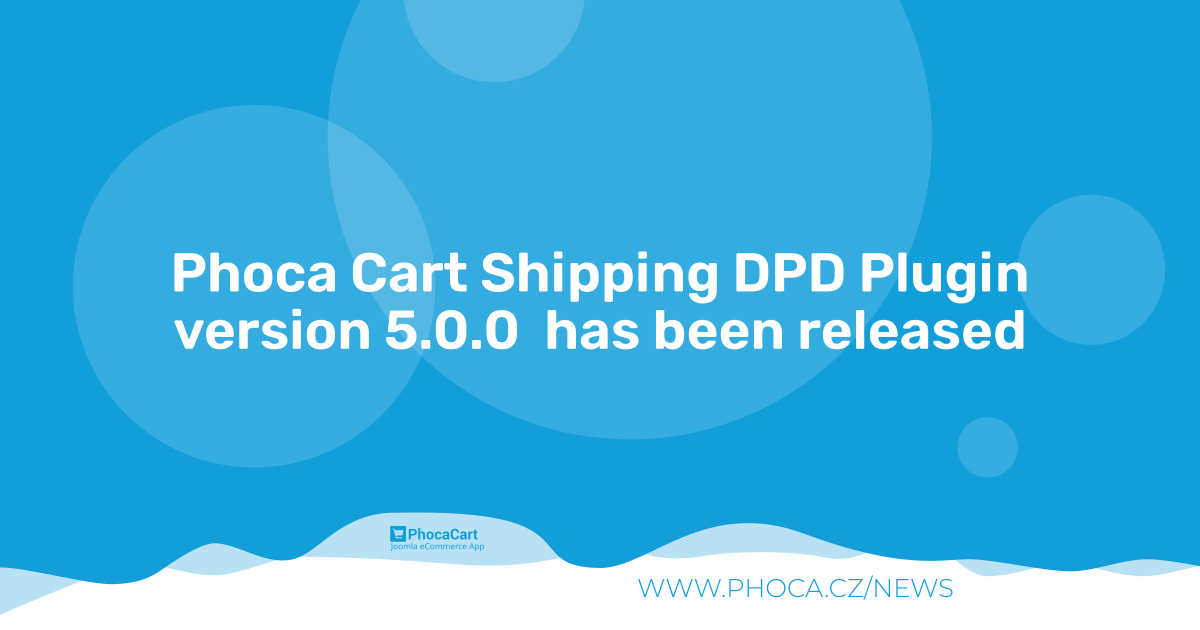
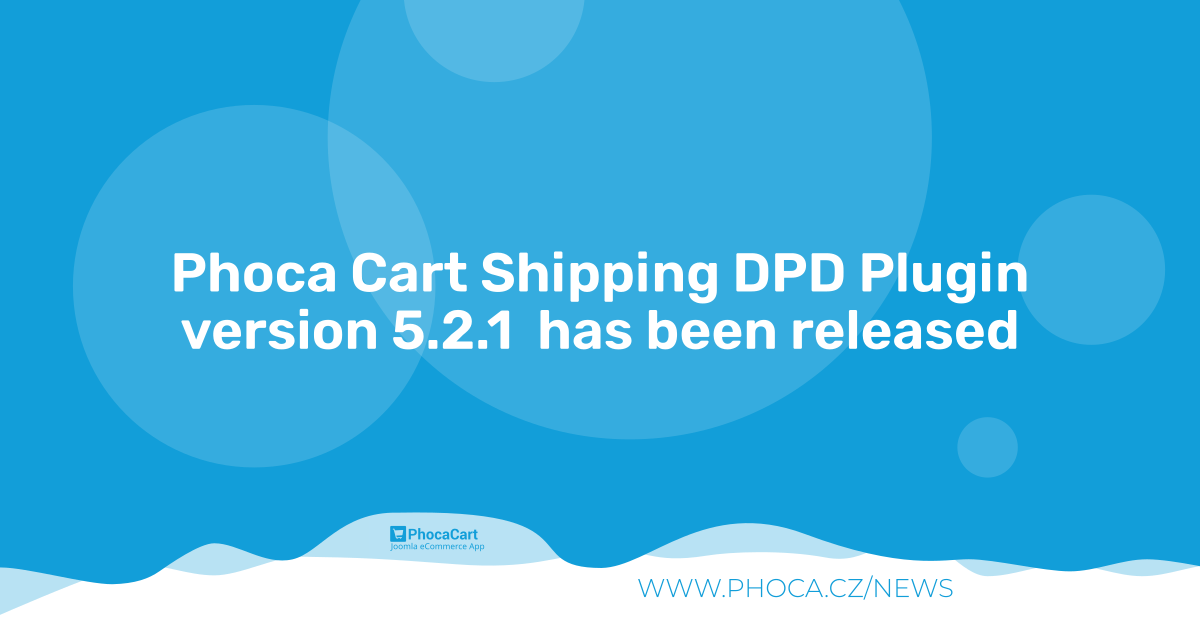
5.2.1

Changed region(s): [[0.1233, 0.4825, 0.8633, 0.573]]

diff --git a/tmpl/default_branchinfo_export.php b/tmpl/default_branchinfo_export.php
@@ -35,38 +35,70 @@ if (!empty($orders)) {
         $paramsShipping = json_decode($v->params_shipping);
 
         $id = (int)$v->id;
-        $eA[$id][]   = ['orderNumber' => $v->order_number];
-        $eA[$id][]   = ['senderLabel' => $senderName];
 
-        $eA[$id][] = $v->us1_name_first != '' ? ['name' => $v->us1_name_first] : ['name' => $v->us0_name_first];// first shipping then billing
-        $eA[$id][] = $v->us1_name_last != '' ? ['surname' => $v->us1_name_last] : ['surname' => $v->us0_name_last];
 
+        // Name
+        $nameFirst = $v->us1_name_first != '' ? $v->us1_name_first : $v->us0_name_first;
+        $nameLast = $v->us1_name_last != '' ? $v->us1_name_last : $v->us0_name_last;
+        $eA[$id][]   = [Text::_('PLG_PCS_SHIPPING_DPD_CSV_HEADER_NAME') => $nameFirst . ' '.$nameLast];
+
+        // Company
         $company    = $v->us1_company != '' ? $v->us1_company : $v->us0_company;
         if ($company != '') {
-            $eA[$id][] = ['company' => $company];
+            $eA[$id][]   = [Text::_('PLG_PCS_SHIPPING_DPD_CSV_HEADER_COMPANY') => $company];
         }
 
-        $eA[$id][] = $v->us1_email != '' ? ['emailAddress' => $v->us1_email] : ['emailAddress' => $v->us0_email];
+        // Address
+        $address = $v->us1_address_1 != '' ? $v->us1_address_1 : $v->us0_address_1;
+        $eA[$id][]   = [Text::_('PLG_PCS_SHIPPING_DPD_CSV_HEADER_ADDRESS') => $address];
 
+        // City
+        $city = $v->us1_city != '' ? $v->us1_city : $v->us0_city;
+        $eA[$id][]   = [Text::_('PLG_PCS_SHIPPING_DPD_CSV_HEADER_CITY') => $city];
+
+        // ZIP
+        $zip = $v->us1_zip != '' ? $v->us1_zip : $v->us1_zip;
+        $eA[$id][]   = [Text::_('PLG_PCS_SHIPPING_DPD_CSV_HEADER_ZIP') => $zip];
+
+        // Country
+        $countryId = $v->us1_country != '' ? $v->us1_country : $v->us1_country;
+
+        $db = Factory::getDBO();
+		$query = 'SELECT a.code2'
+		. ' FROM #__phocacart_countries AS a'
+		. ' WHERE a.id = '.(int)$countryId
+        . ' LIMIT 1';
+		$db->setQuery( $query );
+		$countryCode = $db->loadResult();
+        $eA[$id][]   = [Text::_('PLG_PCS_SHIPPING_DPD_CSV_HEADER_COUNTRY') => $countryCode];
+
+        // Phone
         if ($v->us1_phone_1 != '') {
-            $eA[$id][] = ['phoneNumber' => $v->us1_phone_1];
+            $eA[$id][] = [Text::_('PLG_PCS_SHIPPING_DPD_CSV_HEADER_PHONE') => $v->us1_phone_1];
         } else if ($v->us0_phone_1 != '') {
-            $eA[$id][] = ['phoneNumber' => $v->us0_phone_1];
+            $eA[$id][] = [Text::_('PLG_PCS_SHIPPING_DPD_CSV_HEADER_PHONE') => $v->us0_phone_1];
         } else if ($v->us1_phone_2 != '') {
-            $eA[$id][] = ['phoneNumber' => $v->us1_phone_2];
+            $eA[$id][] = [Text::_('PLG_PCS_SHIPPING_DPD_CSV_HEADER_PHONE') => $v->us1_phone_2];
         } else if ($v->us0_phone_2 != '') {
-            $eA[$id][] = ['phoneNumber' => $v->us0_phone_2];
+            $eA[$id][] = [Text::_('PLG_PCS_SHIPPING_DPD_CSV_HEADER_PHONE') => $v->us0_phone_2];
         } else if ($v->us1_phone_mobile != '') {
-            $eA[$id][] = ['phoneNumber' => $v->us1_phone_mobile];
+            $eA[$id][] = [Text::_('PLG_PCS_SHIPPING_DPD_CSV_HEADER_PHONE') => $v->us1_phone_mobile];
         } else if ($v->us0_phone_mobile != '') {
-            $eA[$id][] = ['phoneNumber' => $v->us0_phone_mobile];
+            $eA[$id][] = [Text::_('PLG_PCS_SHIPPING_DPD_CSV_HEADER_PHONE') => $v->us0_phone_mobile];
         } else {
             //$eA[$id][] = ['phoneNumber' => ''];// no empty value
         }
 
+        // Email
+        $eA[$id][] = $v->us1_email != '' ? [Text::_('PLG_PCS_SHIPPING_DPD_CSV_HEADER_EMAIL') => $v->us1_email] : [Text::_('PLG_PCS_SHIPPING_DPD_CSV_HEADER_EMAIL') => $v->us0_email];
+
+        // Order Number
+        $eA[$id][]   = [Text::_('PLG_PCS_SHIPPING_DPD_CSV_HEADER_ORDER_NUMBER') => $v->order_number];
+        //$eA[$id][]   = ['senderLabel' => $senderName];
+
         $currency    = $v->currency_code;
         if ($currency != '') {
-            $eA[$id][] = ['currency' => $currency];
+            $eA[$id][] = [Text::_('PLG_PCS_SHIPPING_DPD_CSV_HEADER_ORDER_CURRENCY') => $currency];
         }
         // COD
         $round = 0;
@@ -75,20 +107,19 @@ if (!empty($orders)) {
         }
         // Here additional currencies can have own rules
 
-
         if (isset($additionalParameters['totalPay'][$id])) {
             // To Pay set by the form field in orders view
             $changeTotalPay = round($additionalParameters['totalPay'][$id], $round);
-            $eA[$id][]   = ['cod' => $changeTotalPay];
+            $eA[$id][]   = [Text::_('PLG_PCS_SHIPPING_DPD_CSV_HEADER_TO_PAY') => $changeTotalPay];
 
         } else {
             $changeTotalPay = round($v->total_amount, $round);
-            $eA[$id][]   = ['cod' => $changeTotalPay];
+            $eA[$id][]   = [Text::_('PLG_PCS_SHIPPING_DPD_CSV_HEADER_TO_PAY') => $changeTotalPay];
         }
 
 
 
-        $eA[$id][]   = ['value' => round($v->total_amount, $round)];
+        $eA[$id][]   = [Text::_('PLG_PCS_SHIPPING_DPD_CSV_HEADER_ORDER_VALUE') => round($v->total_amount, $round)];
 
 
         $unitWeight = $v->unit_weight;
@@ -106,7 +137,7 @@ if (!empty($orders)) {
         }
 
         if ($weightKg != '' && $weightKg != 0) {
-            $eA[$id][] = ['weightKg' => $weightKg];
+            $eA[$id][] = [Text::_('PLG_PCS_SHIPPING_DPD_CSV_HEADER_WEIGHT') => $weightKg];
         }
 
         if ($weightKg != '') {
@@ -130,22 +161,24 @@ if (!empty($orders)) {
             }
         }*/
 
-        $eA[$id][]   = ['type' => $paramsShipping->type];
-        $eA[$id][]   = ['subtype' => $paramsShipping->subtype];
+       // $eA[$id][]   = ['type' => $paramsShipping->type];
+      //  $eA[$id][]   = ['subtype' => $paramsShipping->subtype];
+
+        $eA[$id][] = [Text::_('PLG_PCS_SHIPPING_DPD_CSV_HEADER_ID_PICKUP_POINT') => $paramsShipping->id];
 
 
-        $eA[$id][]['destination'] = [
+       /* $eA[$id][]['destination'] = [
             'pickupPointOrCarrier' => $paramsShipping->id,
             /*'street' => $street,
             'houseNumber' => $houseNumber,
             'city' => $paramsShipping->city,
-            'zip' => $paramsShipping->zip,*/
+            'zip' => $paramsShipping->zip,*//*
             'name' => $paramsShipping->name,
             'municipality_district_name' => $paramsShipping->municipality_district_name,
             'municipality_name' => $paramsShipping->municipality_name,
             'address' => $paramsShipping->address,
             'country' => $paramsShipping->country
-        ];
+        ];*/
 
 
         // Selectbox
@@ -176,8 +209,27 @@ if (!empty($orders)) {
     }
 
 
-    $t = "\t";
-    $oXml = [];
+    $oCsv = [];
+    $oCsvHeader = [];
+
+    if (!empty($eA)) {
+        $i = 0;
+        foreach ($eA as $k => $v) {
+            if (!empty($v)){
+                foreach ($v as $k2 => $v2) {
+                    $key = key($v2);
+
+                    if ($i == 0) {
+                        $oCsvHeader[] = '"' . $key . '"';
+                    }
+                    $oCsv[$k][] = '"'.$v2[$key].'"';
+                }
+            }
+            $i++;
+        }
+    }
+
+    /*
     if (!empty($eA)) {
         $oXml[] = '<parcels version="1">';
         foreach ($eA as $k => $v) {
@@ -214,36 +266,41 @@ if (!empty($orders)) {
 
         $oXml[] = '</parcels>';
     }
+    */
 
 
+    if (!empty($oCsvHeader)){
 
-    if (!empty($oXml)){
+        $fileCsv = implode(",", $oCsvHeader);
 
-        $fileXml = implode("\n", $oXml);
-
-        $date = date("Y-m-d-H-i-s");
-
-
-        // Update the info about exported
-        if (!empty($ordersSave)) {
-            $db = Factory::getDBO();
-            foreach ($ordersSave as $k => $v) {
-
-                if ((int)$k > 0 && $v != '') {
-
-                    $query = 'UPDATE #__phocacart_orders SET'
-                        . ' params_shipping = ' . $db->quote($v) . ''
-                        . ' WHERE id = ' . (int)$k;
-                    $db->setQuery($query);
-                    $db->execute();
-                }
-
+        if (!empty($oCsv)) {
+            foreach ($oCsv as $k => $v) {
+                $fileCsv .= "\n" . implode(",", $v);
             }
+
+            $date = date("Y-m-d-H-i-s");
+
+
+            // Update the info about exported
+            if (!empty($ordersSave)) {
+                $db = Factory::getDBO();
+                foreach ($ordersSave as $k => $v) {
+
+                    if ((int)$k > 0 && $v != '') {
+
+                        $query = 'UPDATE #__phocacart_orders SET'
+                            . ' params_shipping = ' . $db->quote($v) . ''
+                            . ' WHERE id = ' . (int)$k;
+                        $db->setQuery($query);
+                        $db->execute();
+                    }
+
+                }
+            }
+
+            PhocacartDownload::downloadContent($fileCsv, '', '', $date . '-' . Text::_('PLG_PCS_SHIPPING_DPD_EXPORT_FILENAME') . '.csv', 'text/csv');
+            exit;
         }
-
-        PhocacartDownload::downloadContent($fileXml, '', '', $date .'-'. Text::_('PLG_PCS_SHIPPING_DPD_EXPORT_FILENAME') . '.xml', 'application/xml');
-        exit;
-
     }
 }
 

diff --git a/shipping_dpd.php b/shipping_dpd.php
@@ -66,9 +66,9 @@ class plgPCSShipping_Dpd extends CMSPlugin
                 . ' t.amount AS total_amount,'
                 . ' s.id AS shippingid, s.title AS shippingtitle, s.tracking_link as shippingtrackinglink, s.tracking_description as shippingtrackingdescription, os.orders_view_display as ordersviewdisplay,'
 
-                . ' us0.name_first as us0_name_first, us0.name_last as us0_name_last, us0.company as us0_company, us0.email as us0_email, us0.phone_1 as us0_phone_1, us0.phone_2 as us0_phone_2, us0.phone_mobile as us0_phone_mobile,'
+                . ' us0.name_first as us0_name_first, us0.name_last as us0_name_last, us0.company as us0_company, us0.email as us0_email, us0.phone_1 as us0_phone_1, us0.phone_2 as us0_phone_2, us0.phone_mobile as us0_phone_mobile, us0.address_1 as us0_address_1, us0.city as us0_city, us0.zip as us0_zip, us0.country as us0_country,'
 
-                . ' us1.name_first as us1_name_first, us1.name_last as us1_name_last, us1.company as us1_company, us1.email as us1_email, us1.phone_1 as us1_phone_1, us1.phone_2 as us1_phone_2, us1.phone_mobile as us1_phone_mobile'
+                . ' us1.name_first as us1_name_first, us1.name_last as us1_name_last, us1.company as us1_company, us1.email as us1_email, us1.phone_1 as us1_phone_1, us1.phone_2 as us1_phone_2, us1.phone_mobile as us1_phone_mobile, us1.address_1 as us1_address_1, us1.city as us1_city, us1.zip as us1_zip, us1.country as us1_country'
 
                 . ' FROM #__phocacart_orders AS o'
                 . ' LEFT JOIN #__phocacart_order_statuses AS os ON os.id = o.status_id'

diff --git a/tmpl/default_selectpoint.php b/tmpl/default_selectpoint.php
@@ -17,7 +17,6 @@ $idCheckbox = 'phshippingopt'.$id;
 $s          = PhocacartRenderStyle::getStyles();
 $t          = [];
 $layoutAAQ	= new FileLayout('popup_container_iframe', null, array('component' => 'com_phocacart'));
-$type       = $item->params->get('type', 'BALIKOVNY');
 
 
 $attributeToggle = '';

diff --git a/README.MD b/README.MD
@@ -56,7 +56,7 @@ Phoca Cart Shipping - Shipping DPD Plugin - shipping method for Phoca Cart compo
 
 ## Version (Joomla! 5.x)
 
-5.0.0
+5.2.1
 
 
 